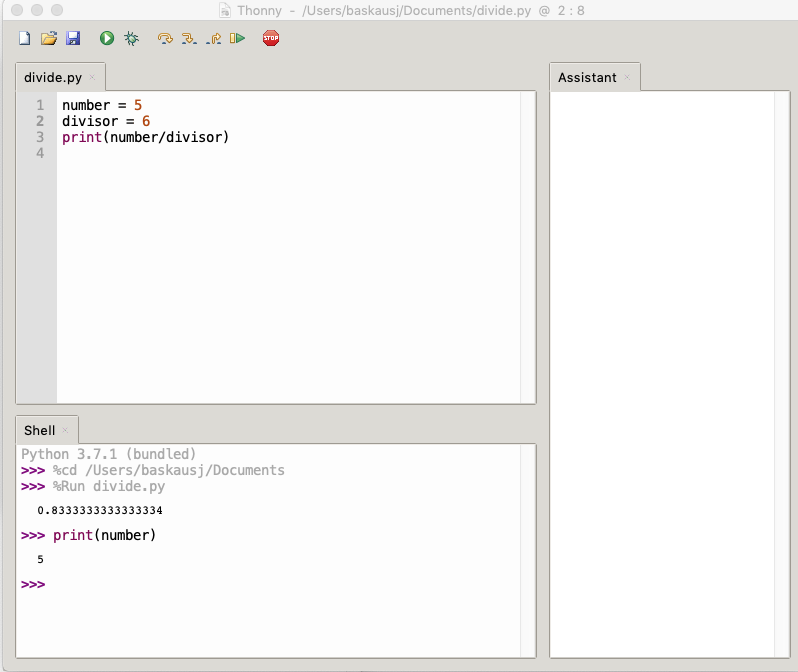
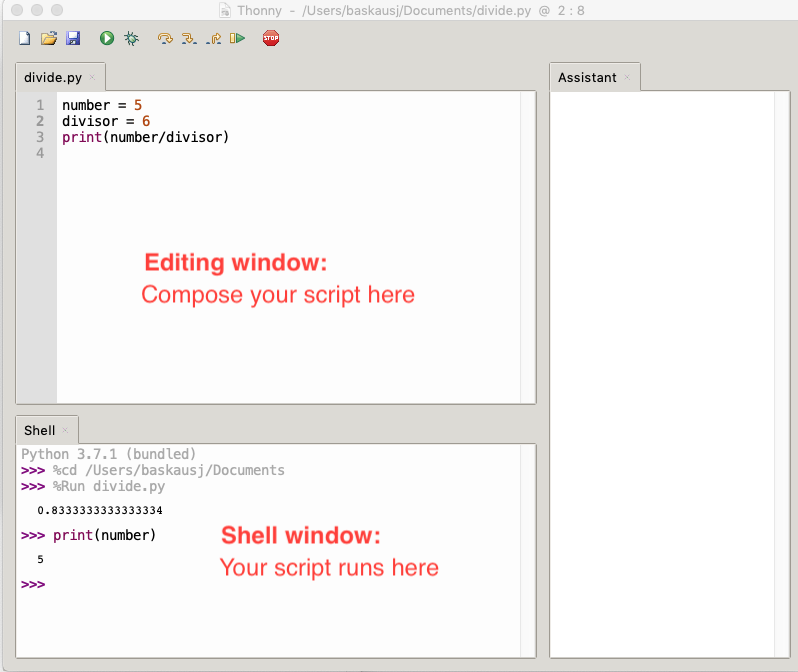
resize image, escape auto numbering

Changed region(s): [[0.1805, 0.375, 0.5113, 0.4688], [0.2707, 0.7812, 0.5414, 0.875]]

diff --git a/script/python/thonny.md b/script/python/thonny.md
@@ -16,25 +16,25 @@ Thonny comes pre-installed if you install the Raspbian operating system on a Ras
 
 ## Install
 
-1. Go to the website <https://thonny.org/> and click on the Mac link in the upper right corner.
+\1. Go to the website <https://thonny.org/> and click on the Mac link in the upper right corner.
 
 <img src="../images/thonny-1mac.png" style="border:1px solid black">
 
-2. A file named something like thonny-3.0.8.dmg will be downloaded to the normal place on your browser.  Here's where it goes on Chrome:
+\2. A file named something like thonny-3.0.8.dmg will be downloaded to the normal place on your browser.  Here's where it goes on Chrome:
 
 <img src="../images/thonny-2.png" style="border:1px solid black">
 
-3. Double-click the file to open it.  You will see a window like the one below.  
+\3. Double-click the file to open it.  You will see a window like the one below.  
 
 <img src="../images/thonny-3.png" style="border:1px solid black">
 
-4. Drag the Thonny.app icon into your Applications folder.  
+\4. Drag the Thonny.app icon into your Applications folder.  
 
 <img src="../images/thonny-5.png" style="border:1px solid black">
 
 You can now run Thonny by doublc-clicking on it in your Applications folder or by opening it in Launchpad.
 
-5. The first time you open the Thonny application, you may get a message something like the one below:  
+\5. The first time you open the Thonny application, you may get a message something like the one below:  
 
 <img src="../images/thonny-4.png" style="border:1px solid black">
 
@@ -44,33 +44,33 @@ Click Open.
 
 <img src="../images/thonny-6.png" style="border:1px solid black">
 
-1. The .dmg installation file is behaving like a disk drive, so you'll see it on your desktop as a drive icon.  To get rid of it, drag it to the trash can to eject it.
+\1. The .dmg installation file is behaving like a disk drive, so you'll see it on your desktop as a drive icon.  To get rid of it, drag it to the trash can to eject it.
 
-2. Once you've moved the application to your Applications folder, you don't really need the installation file any more.  You can go to your Downloads folder and delete it if you like to keep your Downloads folder uncluttered.
+\2. Once you've moved the application to your Applications folder, you don't really need the installation file any more.  You can go to your Downloads folder and delete it if you like to keep your Downloads folder uncluttered.
 
 # Installing Thonny on a PC
 
 ## Install
 
-1. Go to the website <https://thonny.org/> and click on the Windows link in the upper right corner.
+\1. Go to the website <https://thonny.org/> and click on the Windows link in the upper right corner.
 
-<img src="../images/thonny-pc.png" style="border:1px solid black">
+<img src="../images/thonny-1pc.png" style="border:1px solid black">
 
-2. A file named something like thonny-3.0.8.exe will be downloaded to the normal place on your browser.  Here's where it goes on Chrome:
+\2. A file named something like thonny-3.0.8.exe will be downloaded to the normal place on your browser.  Here's where it goes on Chrome:
 
 <img src="../images/thonny-10.png" style="border:1px solid black">
 
-3. Double-click the file to open it.  You will see a window like the one below.  
+\3. Double-click the file to open it.  You will see a window like the one below.  
 
 <img src="../images/thonny-11.png" style="border:1px solid black">
 
-4. Click on Accept and move through the normal options.  If you want a desktop icon, check that option.  You'll see an install progress window like this:
+\4. Click on Accept and move through the normal options.  If you want a desktop icon, check that option.  You'll see an install progress window like this:
 
 <img src="../images/thonny-12.png" style="border:1px solid black">
 
 Click the necessary buttons to complete the installation.
 
-5. If you said you wanted a desktop icon, it will look like this.  
+\5. If you said you wanted a desktop icon, it will look like this.  
 
 <img src="../images/thonny-13.png" style="border:1px solid black">
 
@@ -78,9 +78,11 @@ Double-click it to start.  Otherwise, find and run the Thonny application from y
 
 ## Cleanup
 
-1. If you don't like clutter in your Downloads folder, you can delete the executable installer file.
+\1. If you don't like clutter in your Downloads folder, you can delete the executable installer file.
 
 <img src="../images/thonny-14.png" style="border:1px solid black">
 
 # Running a Python script in Thonny
+
+\1. When your run Thonny, there will be at least two panes visible in the window.  The top pane is the editing window.  This is the place where you can compose your script.  The bottom pane, called the Shell window, is the place where the script runs.
 
